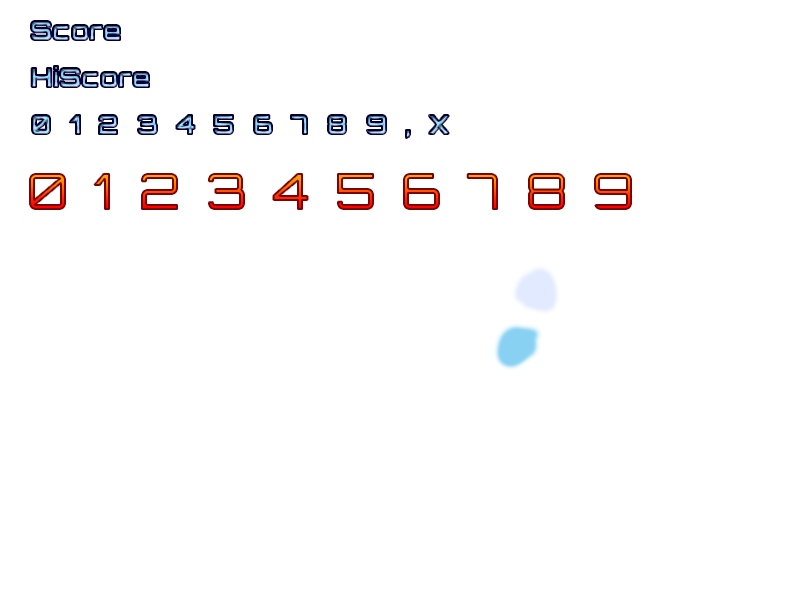
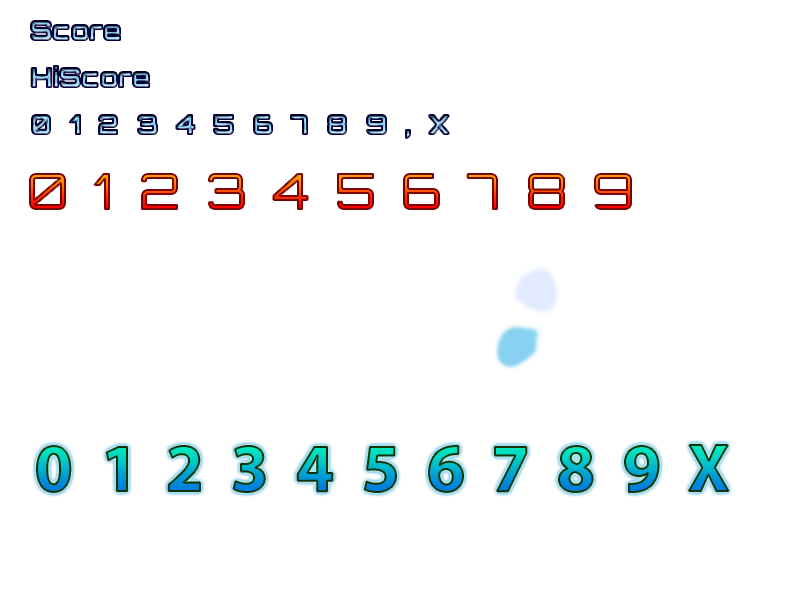
アイテムカウンター追加

Changed region(s): [[0.5312, 0.72, 0.9375, 0.84], [0.125, 0.72, 0.5, 0.84], [0.0312, 0.72, 0.0938, 0.84]]

diff --git a/Program/Game.cpp b/Program/Game.cpp
@@ -181,6 +181,13 @@ void CGame::ImageLoad()
 	m_resourceManager.Add(new CImage("Resource\\UI_fullhd2\\comma.png"), "comma", 1111);
 	m_resourceManager.Add(new CImage("Resource\\UI_fullhd2\\commag.png"), "commag", 1112);
 
+	for (int ii = 0; ii < 10; ii++) {
+		std::string format1 = MyFormat("Resource\\UI_fullhd2\\s%d.png", ii);
+		std::string format2 = MyFormat("s%d", ii);
+		m_resourceManager.Add(new CImage(format1.c_str()), format2.c_str(), 1020 + ii);
+	}
+	m_resourceManager.Add(new CImages("Resource\\UI_fullhd2\\scoreText.png", 10,10,1,80,80), "scoreText", 1030);
+
 	m_resourceManager.Add(new CImage("Resource\\UI_fullhd2\\TextScore.png"), "TextScore", 1150);
 	m_resourceManager.Add(new CImage("Resource\\UI_fullhd2\\TextHiScore.png"), "TextHiScore", 1151);
 	m_resourceManager.Add(new CImage("Resource\\UI_fullhd2\\RankWaku.png"), "RankWaku", 1152);
